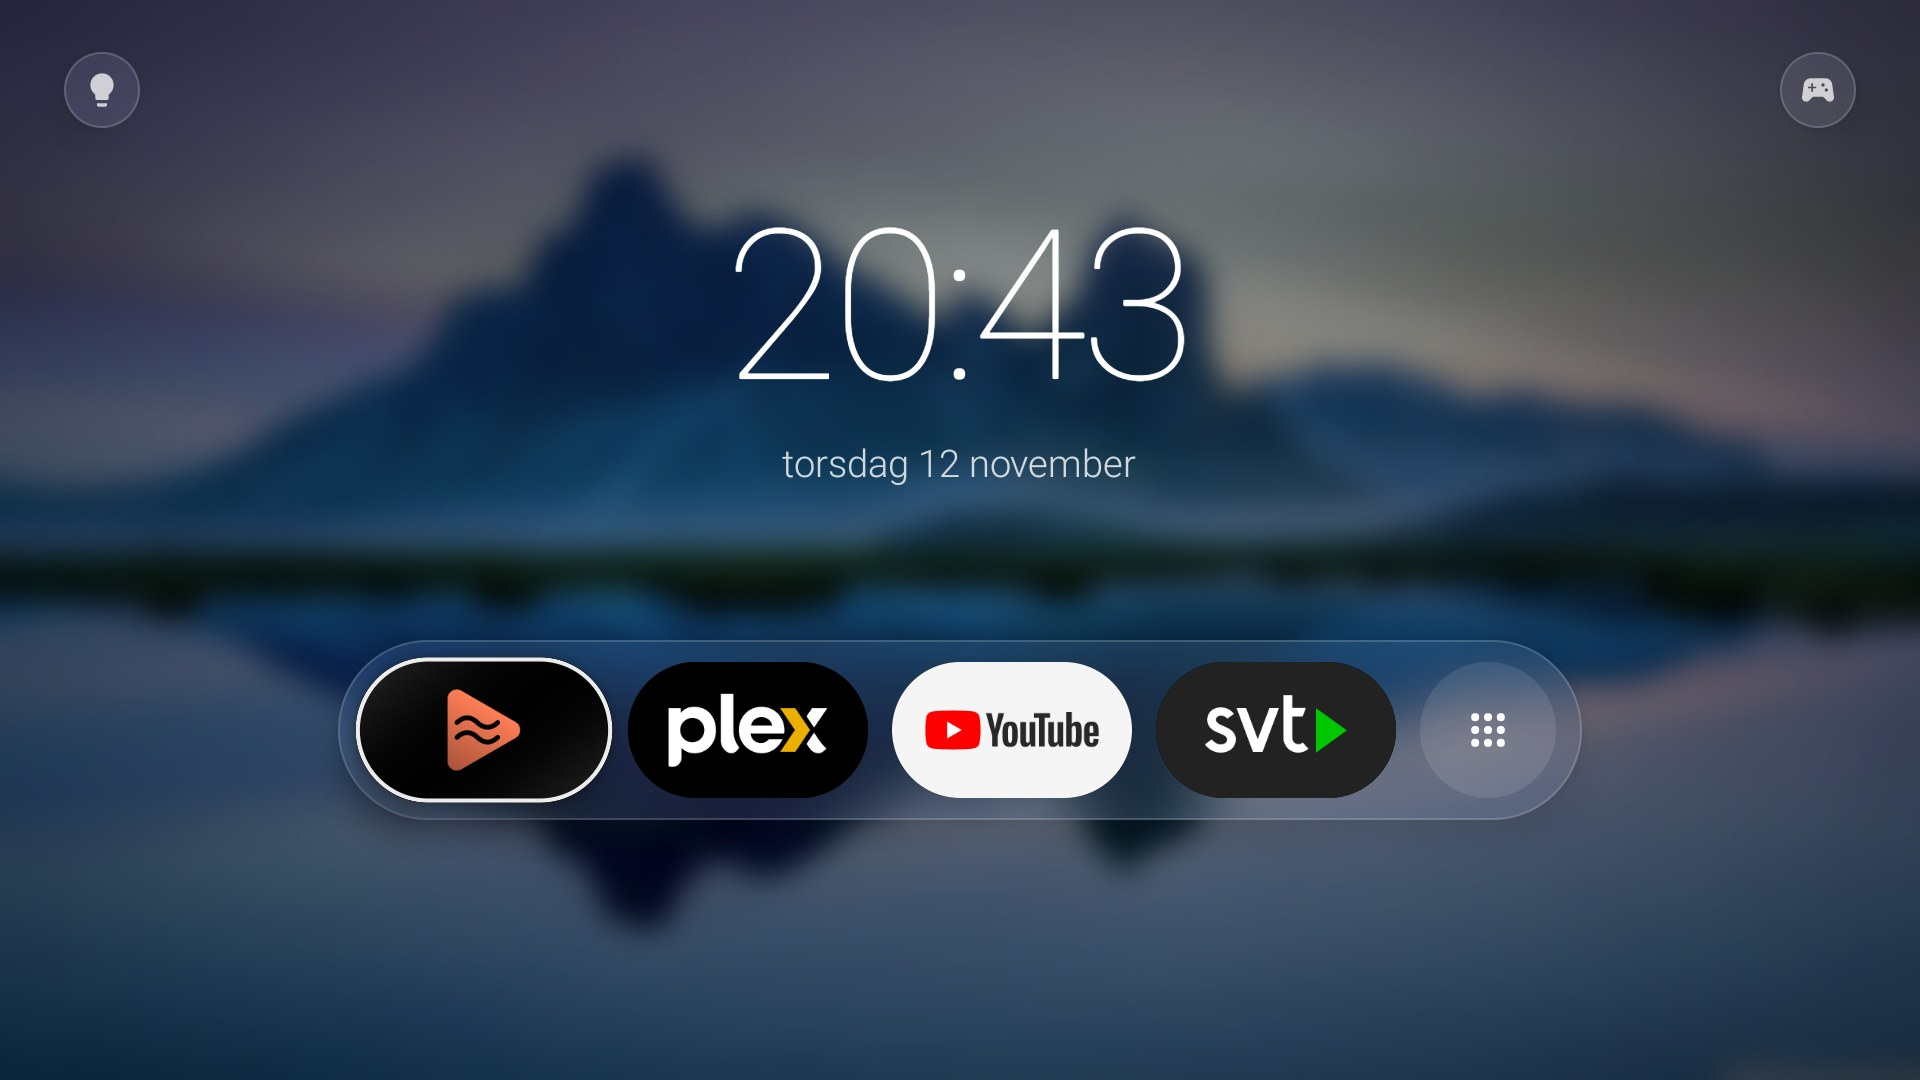
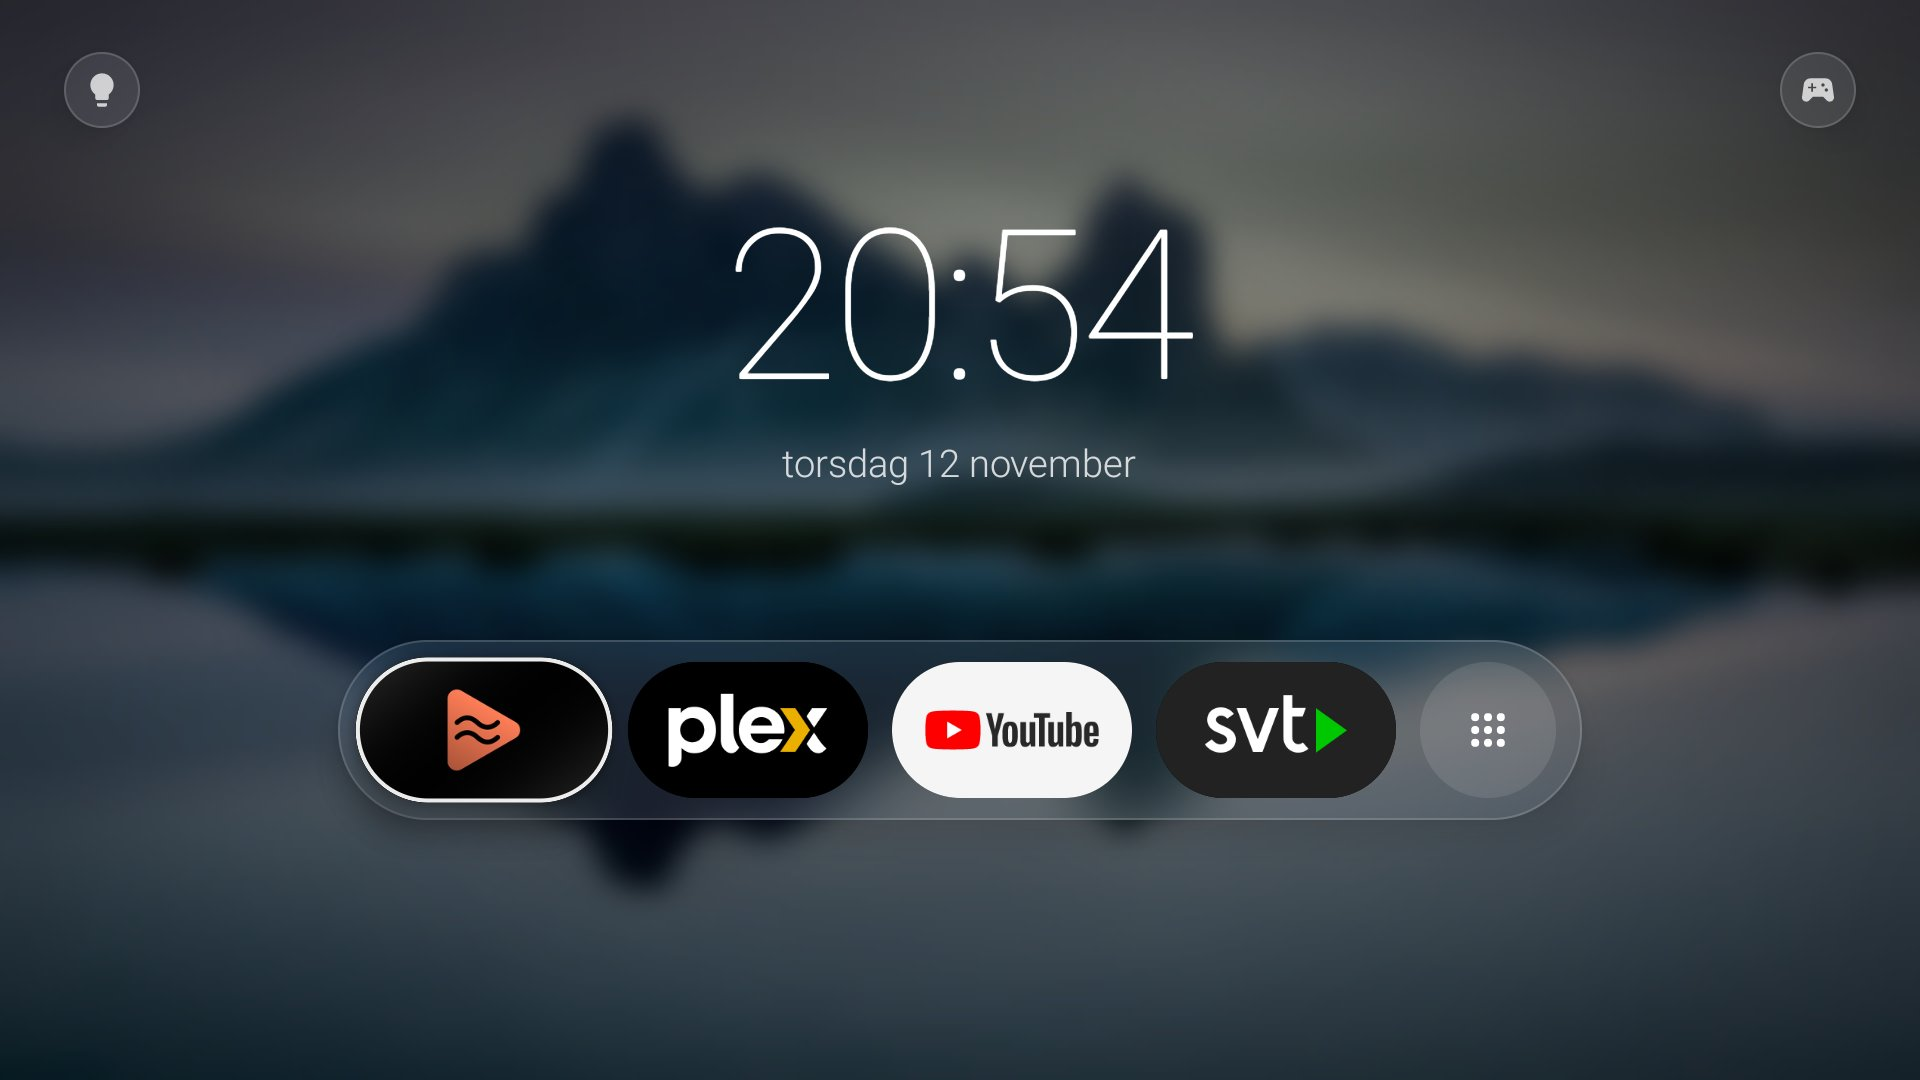
img: replace the wallpaper with the Unsplash original
The old files came from WallpapersWide.com, with its watermark and no
licence. Use the photographer's own upload on Unsplash instead (Unsplash
License), cropped to the same 16:9 framing, and credit it in the README.
Retake the home screen shot with it.

diff --git a/README.md b/README.md
@@ -44,3 +44,8 @@ You need JDK 17 and the Android SDK (platform 35). The TV must be reachable over
 
 The HTML mockups in `design/` show each feature's variants on a 1920×1080 canvas. Open one in a
 browser and use the arrow keys.
+
+## Credits
+
+The default wallpaper is a photo by [Colin Watts](https://unsplash.com/@colinwatts) on
+[Unsplash](https://unsplash.com/photos/T5g1bLqJego), cropped to 16:9.
